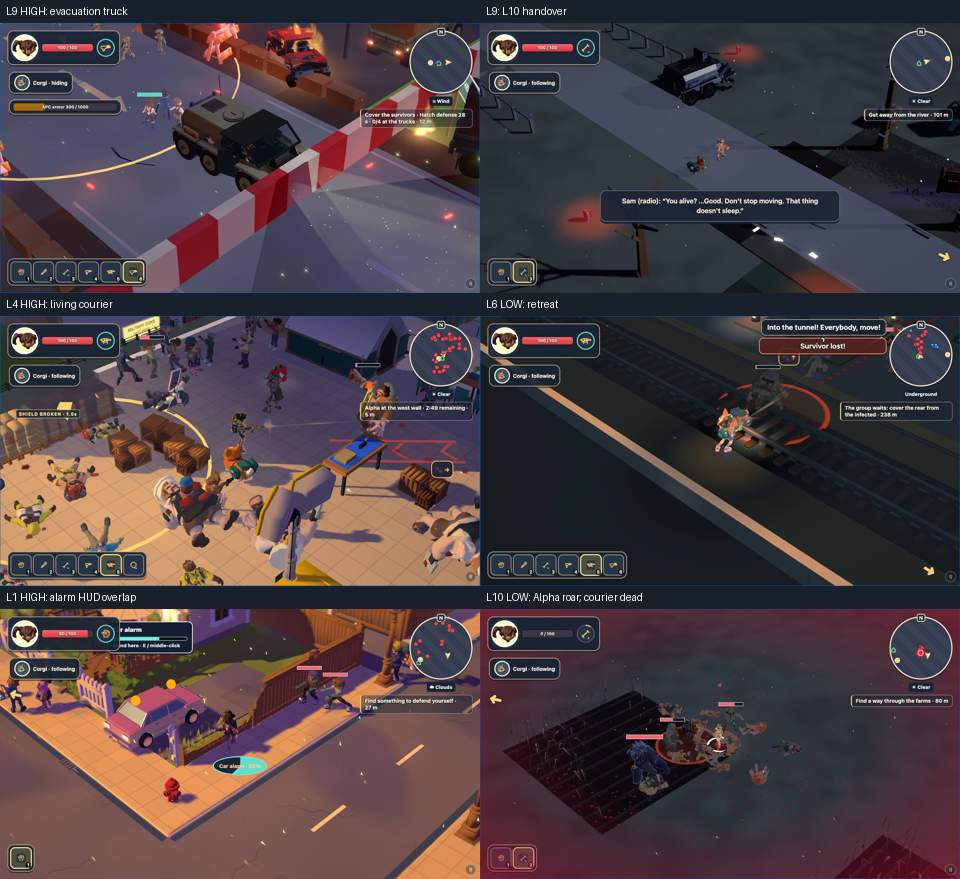
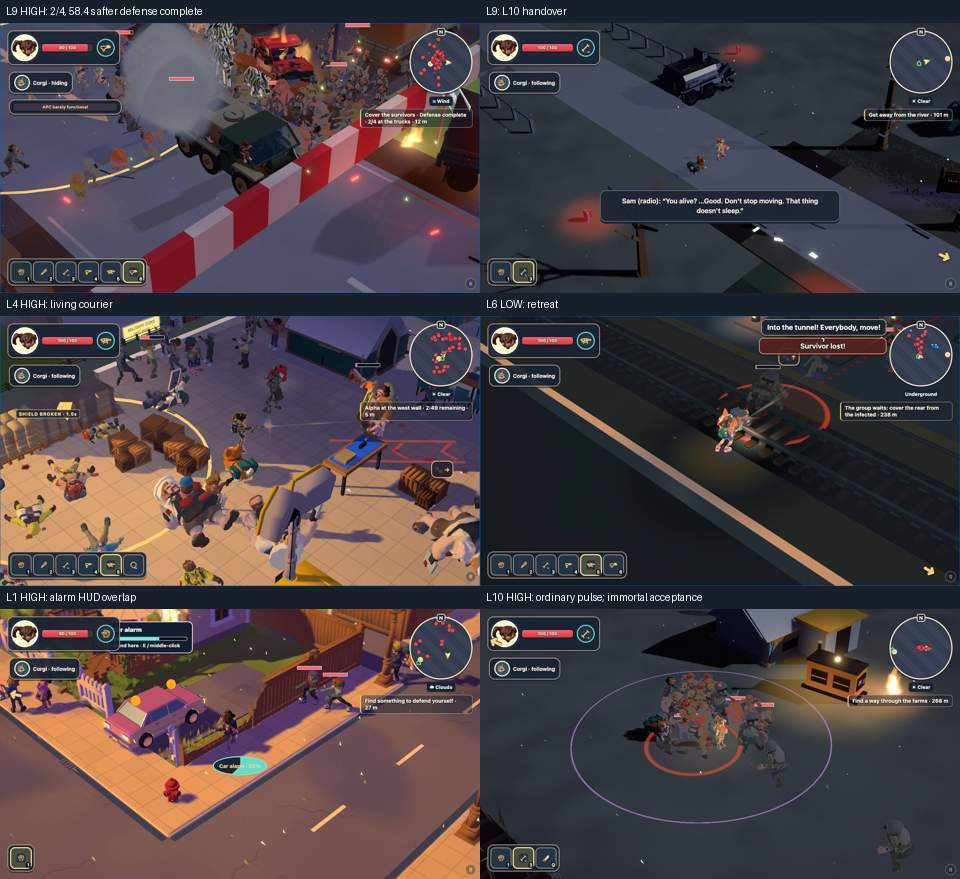
docs: report contradictory L9 evacuation delay and pulse evidence

Changed region(s): [[0.5, 0.6758, 1.0, 1.0], [0.0, 0.0, 0.5, 0.3379], [0.25, 0.3072, 0.3125, 0.3379]]

diff --git a/docs/reports/batch-106-real-input/README.md b/docs/reports/batch-106-real-input/README.md
@@ -1,11 +1,13 @@
 # Batch 106 real-input QA — incomplete
 
-Candidate `65e45013`. Results and remaining evidence gaps are recorded in [qa.json](qa.json). This is a progress report, not candidate approval.
+Candidate `65e45013`. **P1: a fresh HIGH road repeat remained at 2/4 trucks 58.4 s after Defense complete and ended its 240 s sample without L10 handover, with the courier alive.** This contradicts the earlier passing evacuation runs; permanent softlock is not proven. Results and remaining evidence gaps are recorded in [qa.json](qa.json). This is a progress report, not candidate approval.
 
 Two complete L9 runs reached L10. HIGH road: zero deaths, 4/4 passengers before defense ended, maximum roll/pitch 15.0°/11.4°. LOW shortcut: maximum roll/pitch 11.4°/10.5°. Static courier readability captures and HIGH/LOW two-minute L1/L3/L10 spots were collected. Ordinary screamer pulse and motion requirements remain unverified.
 
 Findings: likely P2 elevated L9 red evacuation truck; P3 L1 car-alarm panel overlapping the health HUD. Local raw captures/logs remain under `test-results/s125/`.
 
-Temporary driver changes enable hatch shooting, admit rendered APC boarders, capture zoom 1/1.5, reapply requested quality after loading saves, and capture actual scream/roar events. They were restored before this report checkpoint commit; the diagnostic patch is retained outside git at `/private/tmp/s125-playtest-driver.patch`.
+Temporary driver changes enable hatch shooting, admit rendered APC boarders, capture zoom 1/1.5, reapply requested quality after loading saves, and capture actual scream/roar events. They were restored before this report checkpoint commit; the diagnostic patch is retained outside git at `/private/tmp/s125-playtest-driver-v2.patch`.
 
-[Reviewed contact sheet](contact-sheet.jpg), 102 KB: evacuation truck placement, L10 handover, L4 HIGH and L6 LOW courier frames, L1 alarm-panel overlap, and L10 LOW Alpha roar (courier dead). These static frames do not establish motion quality or the changed ordinary screamer pulse.
+[Reviewed contact sheet](contact-sheet.jpg), 102 KB: evacuation truck placement, L10 handover, L4 HIGH and L6 LOW courier frames, L1 alarm-panel overlap, and L10 HIGH ordinary scream pulse (immortal route-only acceptance). These static frames do not establish motion quality across all requested scenes. L10 ordinary pulse is visible when centered on dark ground without broad ground painting; it is easier to miss moving away. L6/L7/L9 warning evidence remains incomplete.
+
+Further temporary diagnostics used disclosed immortal/route-only acceptance, a 30-second control release near the L6 hatch, read-only Alpha state logging, and downloaded pool video. All tracked tool edits are restored. No zombie stats, corpse persistence, source behavior, deployment, main branch, or remote branch was changed. The report remains incomplete for warning coverage in L6/L7/L9, continuous motion, and living L4/L6 dense-horde motion checks.
